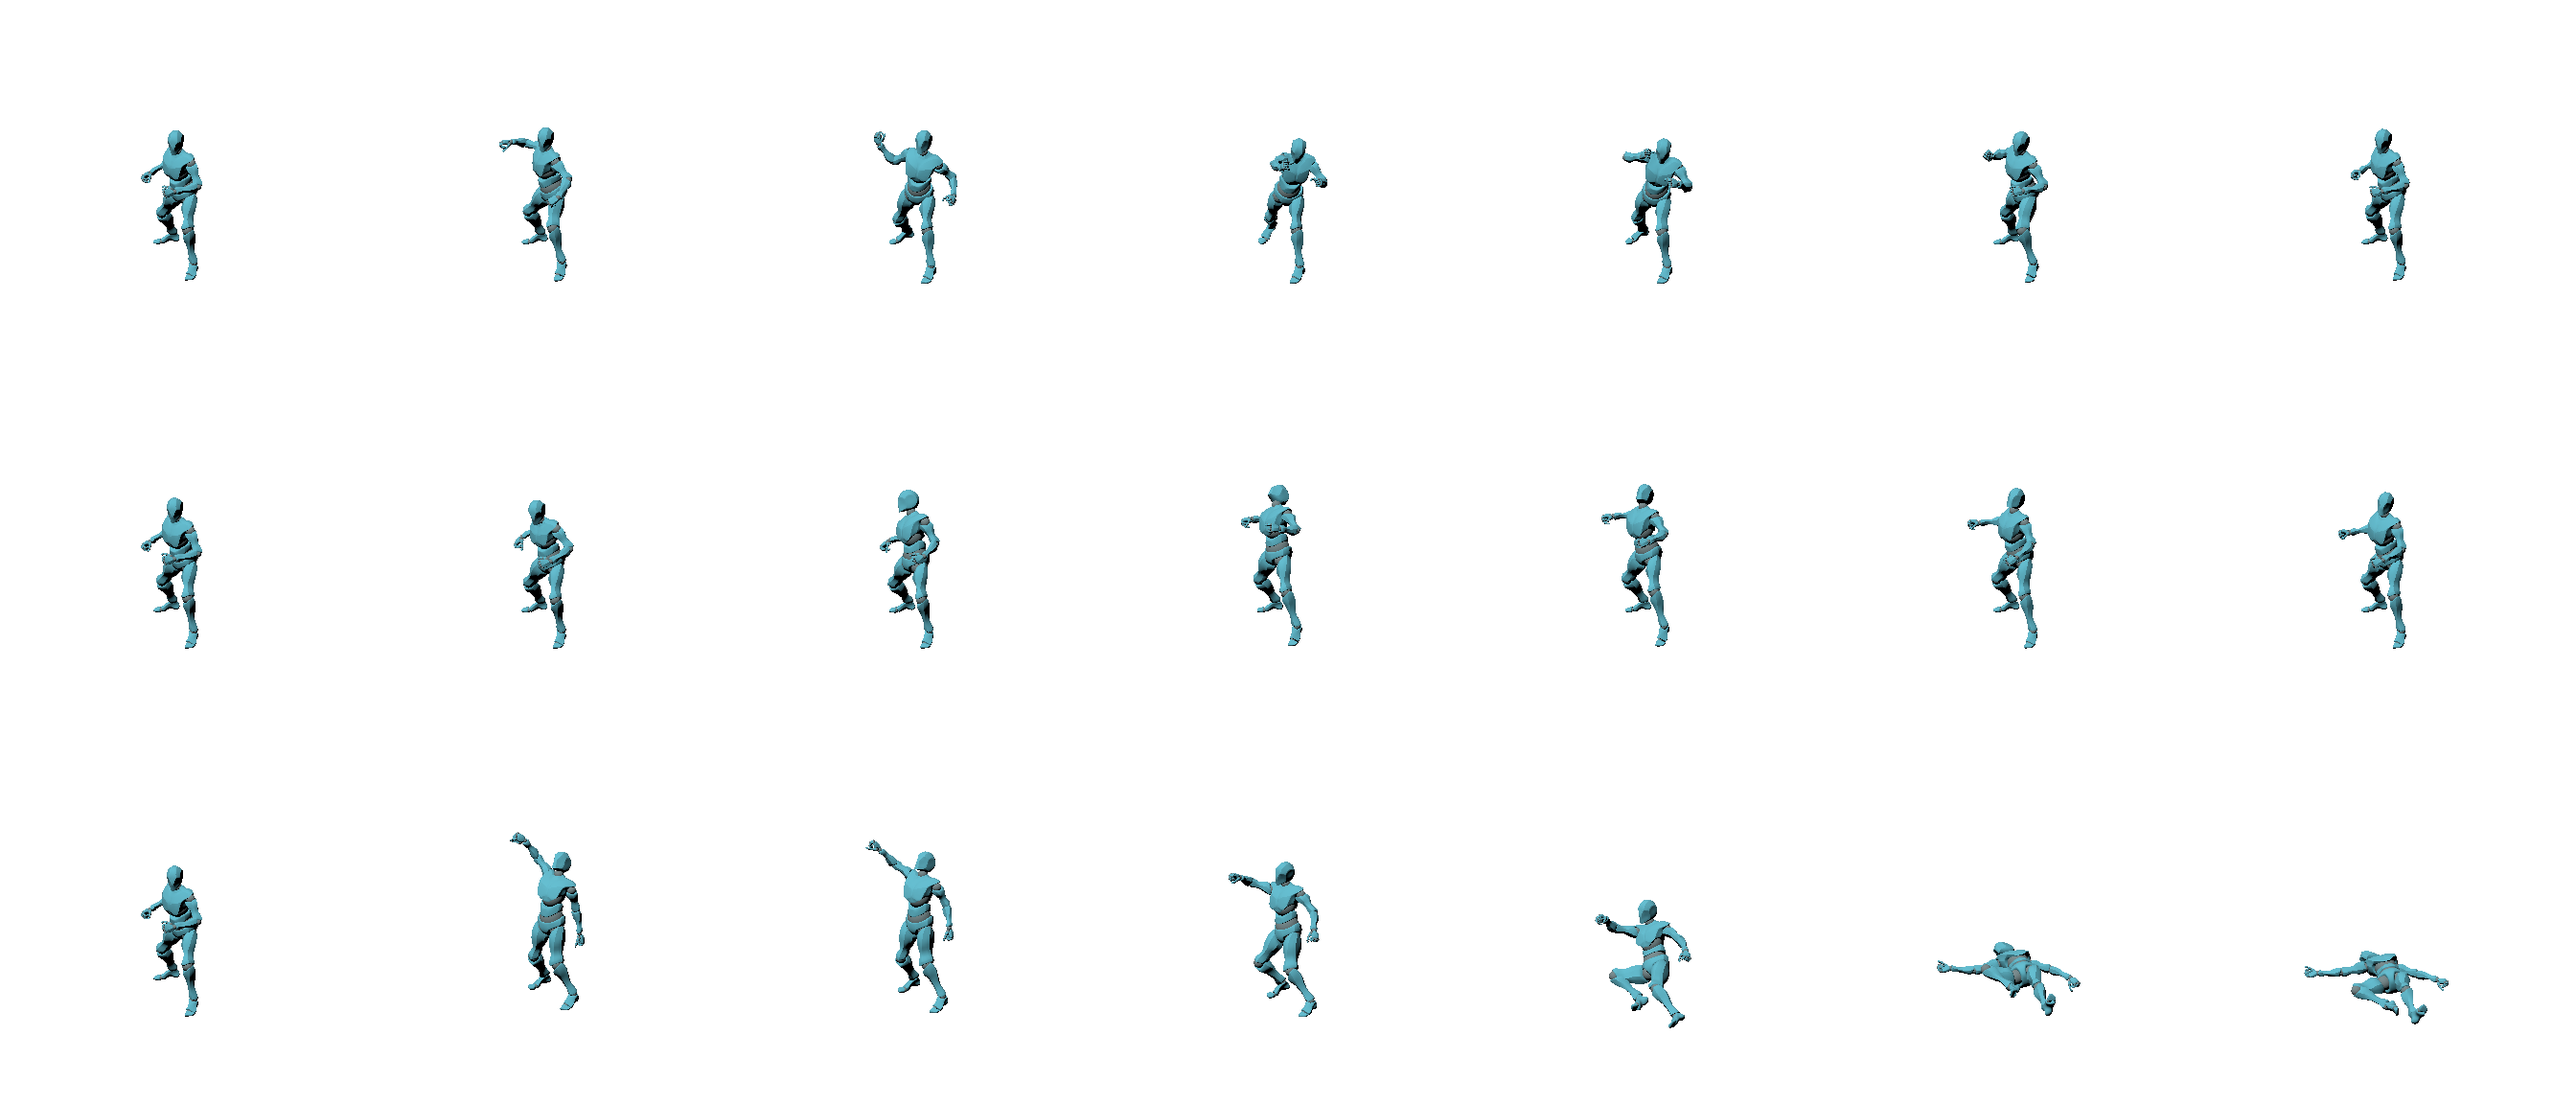
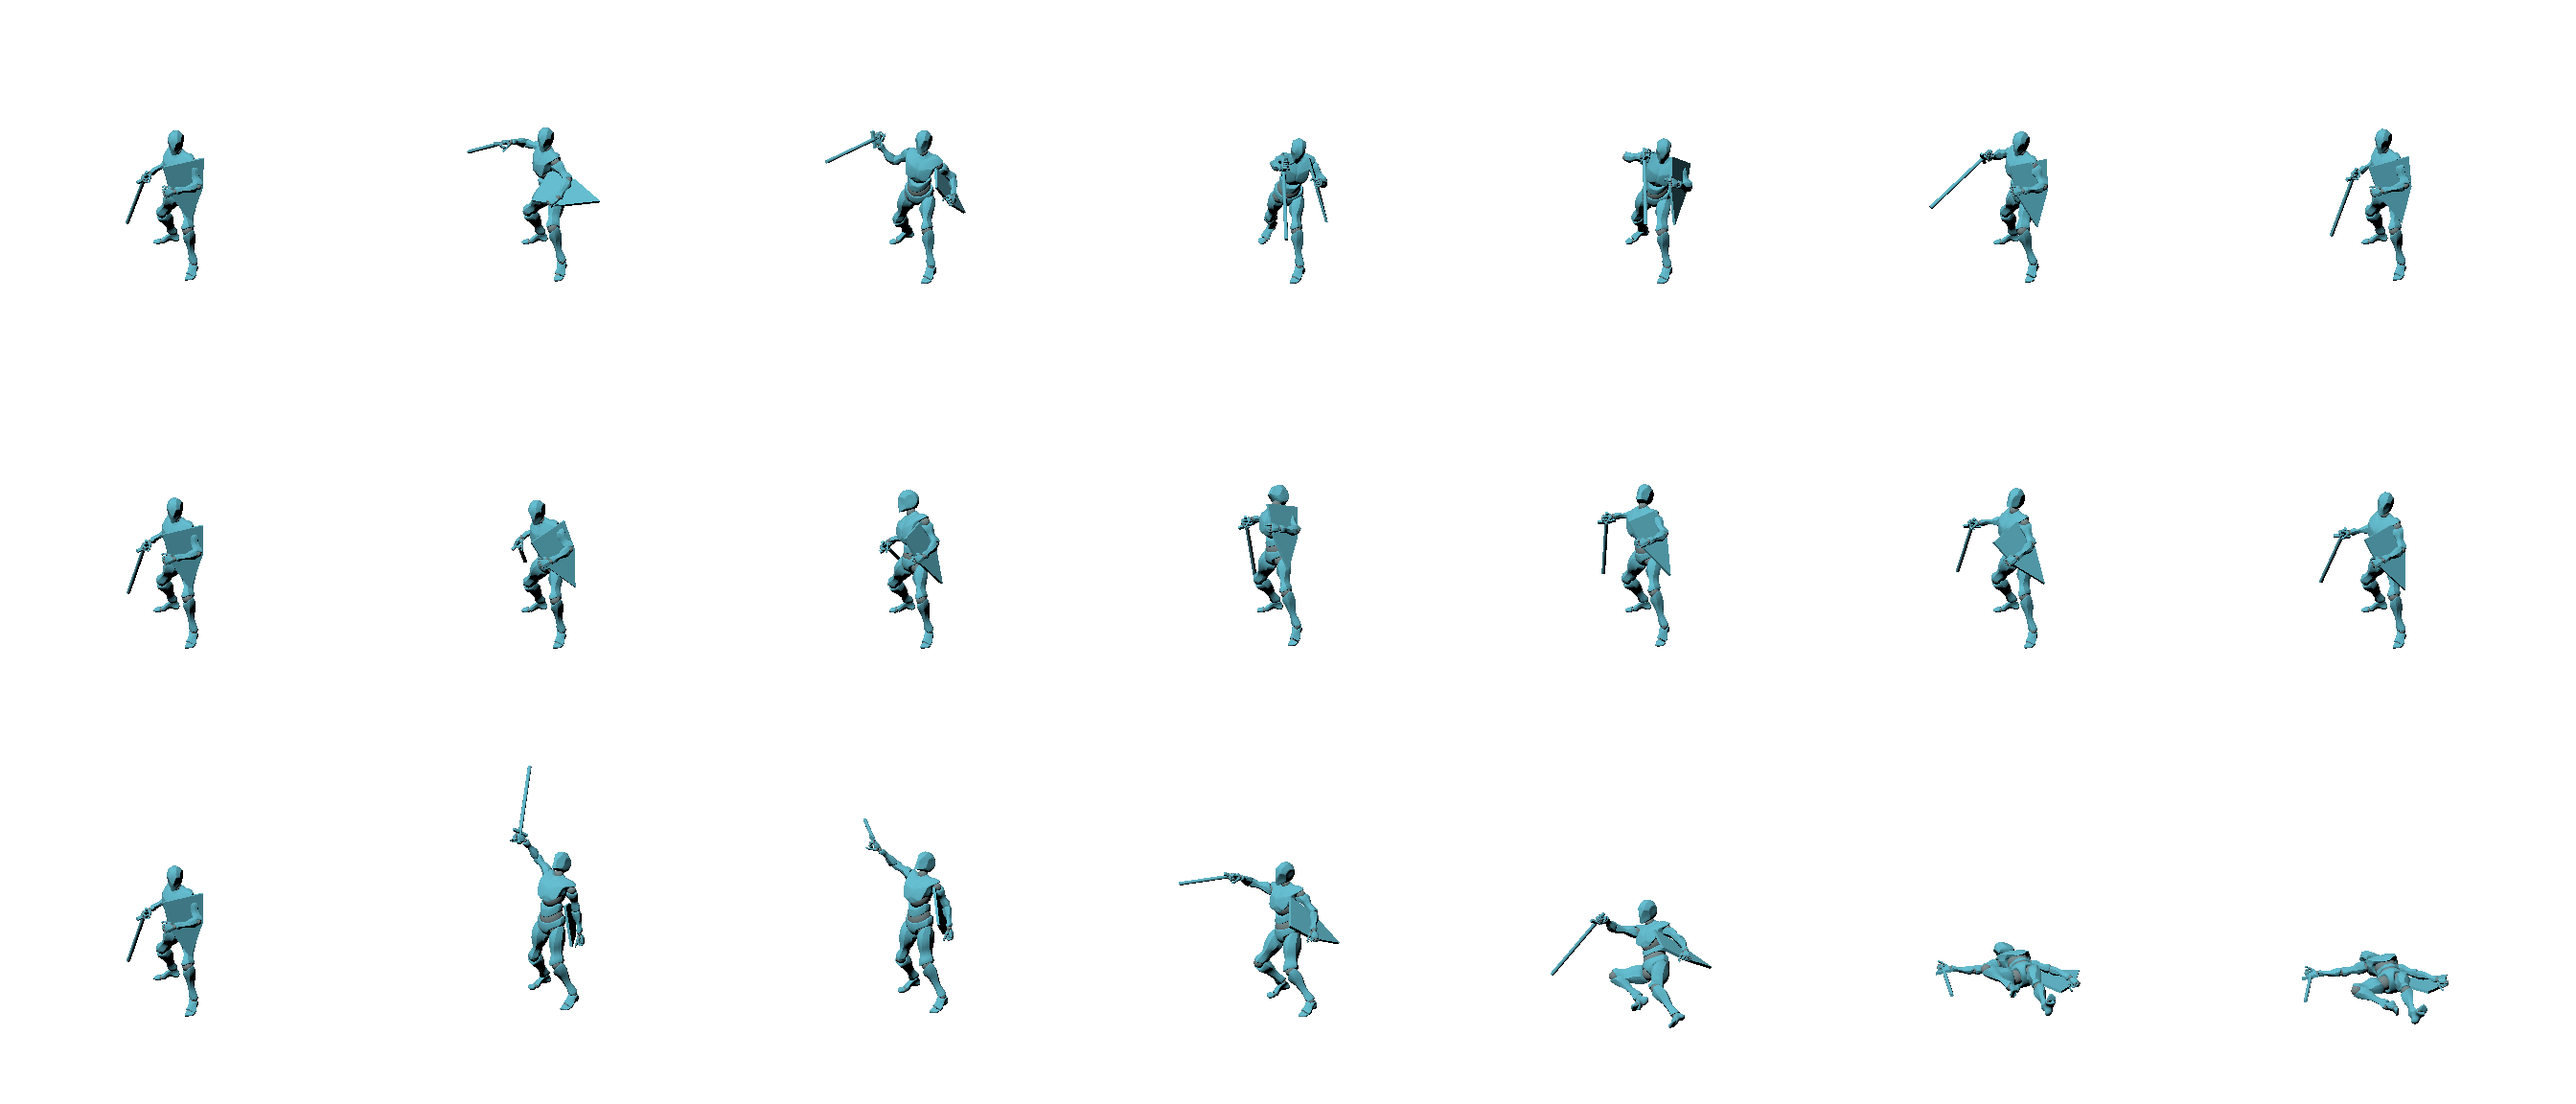
El maniquí de 8 direcciones lleva espada y escudo de guía
Un palo con guarda en la mano derecha y un escudo de cometa plano en el
antebrazo izquierdo, colgados de sus huesos para que sigan cada clip. La
orientación se eligió entre los cuatro ejes posibles mirando el ataque: la
hoja prolonga el brazo hacia el enemigo. El prompt pide copiar el largo, el
ángulo y el sitio del atrezo gris.

diff --git a/tools/art/poses.ts b/tools/art/poses.ts
@@ -117,9 +117,71 @@ function puntoMasBajo(model) {
 }
 `;
 
+/**
+ * El atrezo del maniquí: una espada (un palo con guarda) en la mano derecha y un
+ * escudo de cometa plano en el antebrazo izquierdo, colgados de sus huesos para
+ * que sigan cada clip. Con el arma dibujada en la referencia, el modelo de
+ * imagen copia su largo y su ángulo en vez de inventarlos (como la lanza del
+ * jinete en `montura/escena.js`). Gris como el maniquí: dice forma, no aspecto.
+ *
+ * Los giros y posiciones van en el sistema del hueso, en centímetros; se
+ * ajustan mirando el render (`HEROES_ATREZO` los sobrescribe para probar).
+ */
+const AJUSTE_ATREZO = (() => {
+  const base = {
+    // La hoja sale hacia el lado del pulgar: en el ataque prolonga el brazo
+    // hacia el enemigo y en reposo apunta abajo y adelante (elegida entre los
+    // cuatro ejes posibles mirando el render).
+    espada: { largo: 0.85, giro: [0, 0, Math.PI / 2], pos: [0, 8, 0] },
+    // Plano, vertical y con la punta abajo, por fuera del antebrazo.
+    escudo: { giro: [0, 0, Math.PI / 2], pos: [0, 12, 6] },
+  };
+  const env = process.env.HEROES_ATREZO;
+  return env === undefined ? base : { ...base, ...(JSON.parse(env) as Partial<typeof base>) };
+})();
+
+const ATREZO = `
+function ponerAtrezo(model, prefijo, ajuste) {
+  let material = null;
+  model.traverse((n) => { if (!material && n.isMesh) material = Array.isArray(n.material) ? n.material[0] : n.material; });
+  const hueso = (nombre) => {
+    const h = model.getObjectByName(prefijo + nombre);
+    if (!h) throw new Error('el rig no tiene el hueso ' + prefijo + nombre);
+    return h;
+  };
+  const espada = new THREE.Group();
+  const hoja = new THREE.Mesh(new THREE.CylinderGeometry(0.022, 0.022, ajuste.espada.largo, 8), material);
+  hoja.position.y = ajuste.espada.largo / 2 + 0.07;
+  const guarda = new THREE.Mesh(new THREE.BoxGeometry(0.2, 0.03, 0.035), material);
+  guarda.position.y = 0.07;
+  const puño = new THREE.Mesh(new THREE.CylinderGeometry(0.02, 0.02, 0.14, 8), material);
+  espada.add(hoja, guarda, puño);
+  espada.scale.setScalar(100);
+  espada.rotation.set(...ajuste.espada.giro);
+  espada.position.set(...ajuste.espada.pos);
+  hueso('RightHand').add(espada);
+
+  const forma = new THREE.Shape();
+  forma.moveTo(-0.24, 0.3);
+  forma.lineTo(0.24, 0.3);
+  forma.lineTo(0.2, -0.05);
+  forma.lineTo(0, -0.45);
+  forma.lineTo(-0.2, -0.05);
+  forma.closePath();
+  const plano = new THREE.Mesh(new THREE.ExtrudeGeometry(forma, { depth: 0.03, bevelEnabled: false }), material);
+  const escudo = new THREE.Group();
+  escudo.add(plano);
+  escudo.scale.setScalar(100);
+  escudo.rotation.set(...ajuste.escudo.giro);
+  escudo.position.set(...ajuste.escudo.pos);
+  hueso('LeftForeArm').add(escudo);
+}
+`;
+
 async function prepararForge(
   temporal: string,
   encuadre: Encuadre = ENCUADRE_DE_FIGURA,
+  atrezo = false,
 ): Promise<void> {
   for (const item of ['src', 'bin', 'sets', 'package.json']) {
     await cp(join(FORGE, item), join(temporal, item), { recursive: true });
@@ -195,6 +257,7 @@ async function prepararForge(
     accionGolpe.play();
     golpe = { accion: accionGolpe, fin: clipGolpe.duration - 1e-4, muerte: action };
   }
+  if (${atrezo}) ponerAtrezo(model, bonePrefix, ${JSON.stringify(AJUSTE_ATREZO)});
   scene.updateMatrixWorld(true);
   const suelo = puntoMasBajo(model);
   Object.assign(state, { renderer, scene, camera, pivot, mixer, clip, model, animId, golpe, suelo });`,
@@ -226,7 +289,7 @@ async function prepararForge(
       throw new Error(`sprite-forge cambió: falta «${antes}» en page.mjs`);
     pagina = pagina.replace(antes, despues);
   }
-  await writeFile(rutaPagina, pagina + POSE_A_DISTANCIA + PUNTO_MAS_BAJO);
+  await writeFile(rutaPagina, pagina + POSE_A_DISTANCIA + PUNTO_MAS_BAJO + ATREZO);
 }
 
 interface MetaDeClip {
@@ -416,7 +479,7 @@ export async function renderizarOchoDirecciones(destino = DIR_POSES): Promise<st
   const { columnas } = FIGURA;
   const temporal = await mkdtemp(join(tmpdir(), 'heroes-poses-8d-'));
   try {
-    await prepararForge(temporal, encuadre);
+    await prepararForge(temporal, encuadre, true);
     const salida = join(temporal, 'out');
     const anims = [...new Set(Object.values(hojas).flatMap((h) => h.map((c) => c.anim)))];
     execFileSync(

diff --git a/tools/taller/encargo.ts b/tools/taller/encargo.ts
@@ -14,7 +14,7 @@ import { NOMBRES_DE_DIRECCION } from './direcciones.js';
 
 /** Lo que cada referencia aporta, y nada más. */
 export const PAPELES = {
-  pose: 'es la REFERENCIA DE POSE: el maniquí Y Bot renderizado con cámara ortográfica elevada 25 grados. Manda en la cámara, la anatomía, la escala y el movimiento de cada celda. Copia cada pose articulación por articulación',
+  pose: 'es la REFERENCIA DE POSE: el maniquí Y Bot renderizado con cámara ortográfica elevada 25 grados. Manda en la cámara, la anatomía, la escala y el movimiento de cada celda. Copia cada pose articulación por articulación. Si el maniquí lleva atrezo gris (un palo por espada, un plano por escudo), copia su largo, su ángulo y su sitio en cada celda: es la guía del arma real',
   identidad:
     'es la IDENTIDAD DEL PERSONAJE: define su aspecto (cara, ropa, armadura, armas, colores) y su acabado pintado. No determina la cámara, la anatomía ni la pose',
   // Sin hablar de su cámara: unas referencias de estilo están de frente (las
@@ -127,7 +127,7 @@ const SIN_FONDO =
 /** Lo que pinta cada fila de una hoja de 8 direcciones. */
 const FILAS_OCHO = {
   a: 'Fila 1: las siete poses de reposo de la fila 1 de la referencia de pose. Fila 2: las siete fases de marcha de la fila 2, con apoyo y paso alternando pierna cercana y lejana y los brazos en oposición. Fila 3: las siete fases de la CARGA de la fila 3: corriendo al ataque con el escudo por delante y la espada lista. Cada fila copia su fila de la referencia, articulación por articulación.',
-  b: 'Fila 1: las siete poses de ATAQUE de la fila 1 de la referencia de pose, golpeando con la espada. Fila 2: las siete poses de RECIBIR DAÑO de la fila 2: encaja un golpe y retrocede. Fila 3: las siete poses de la MUERTE de la fila 3: la primera es EXACTAMENTE la última de la fila 2, luego se desploma, y la última es el cadáver tendido e inmóvil en el suelo, con sus armas caídas a su lado. Cada fila copia su fila de la referencia, articulación por articulación.',
+  b: 'Fila 1: las siete poses de ATAQUE de la fila 1 de la referencia de pose, golpeando con la espada. Fila 2: las siete poses de RECIBIR DAÑO de la fila 2: encaja un golpe y retrocede. Fila 3: las siete poses de la MUERTE de la fila 3: la primera es EXACTAMENTE la última de la fila 2, luego se desploma, y la última es el cadáver tendido e inmóvil en el suelo, con la espada y el escudo donde los tiene el maniquí. Cada fila copia su fila de la referencia, articulación por articulación.',
 } as const;
 
 function reglasDeAtlas(e: Encargo): string {
